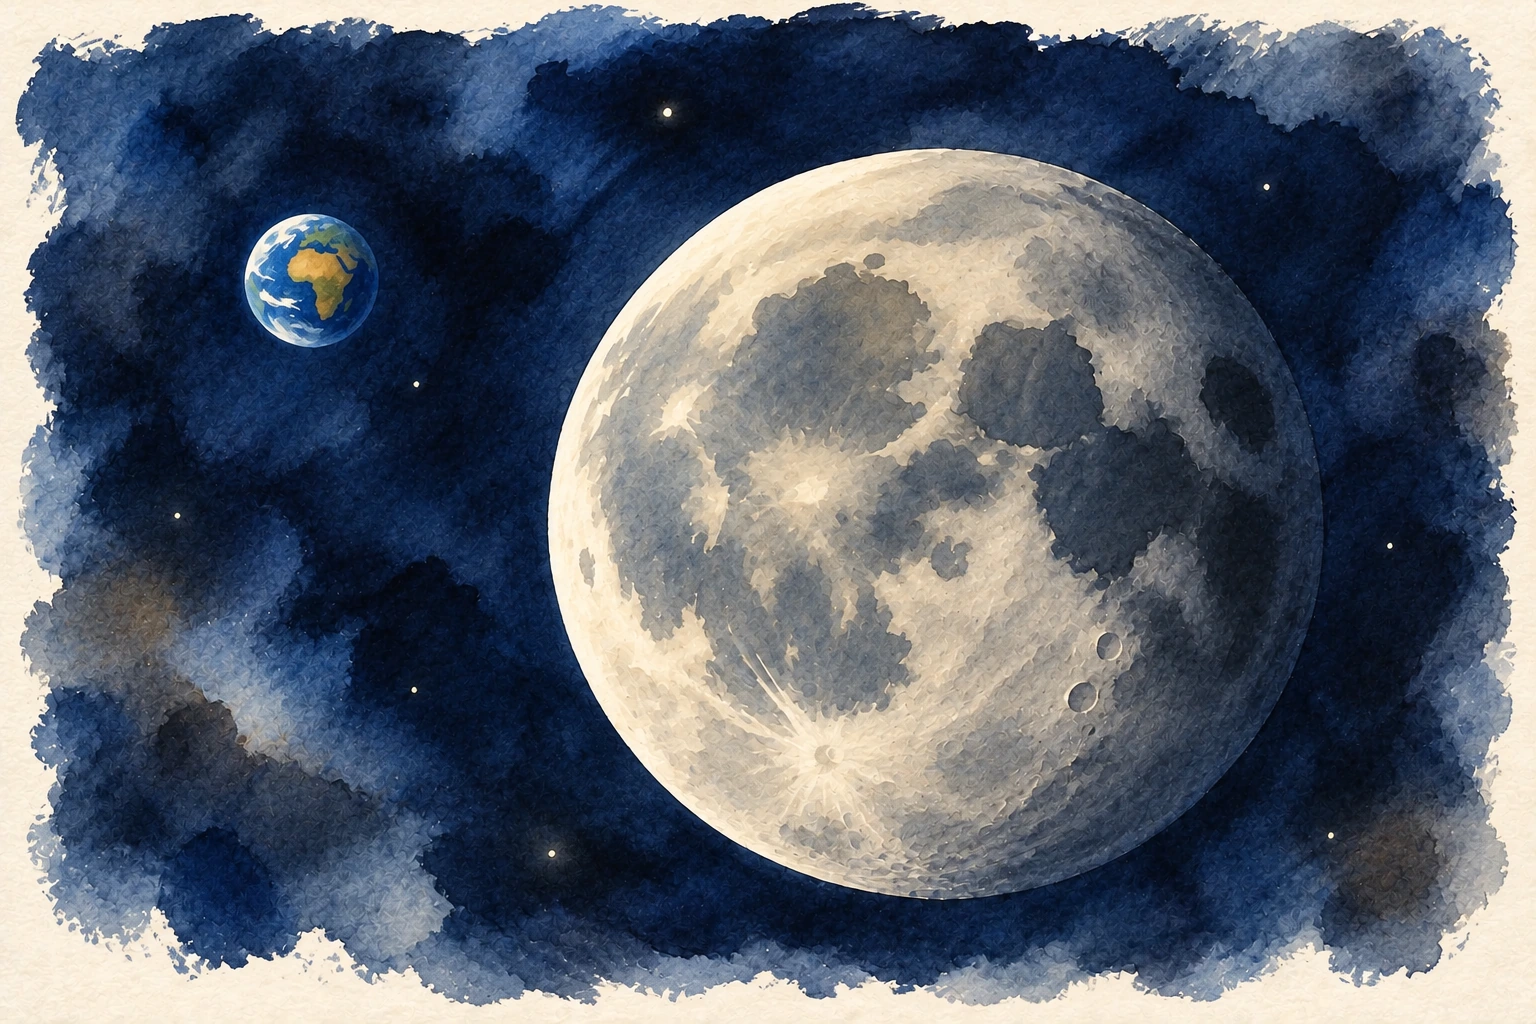
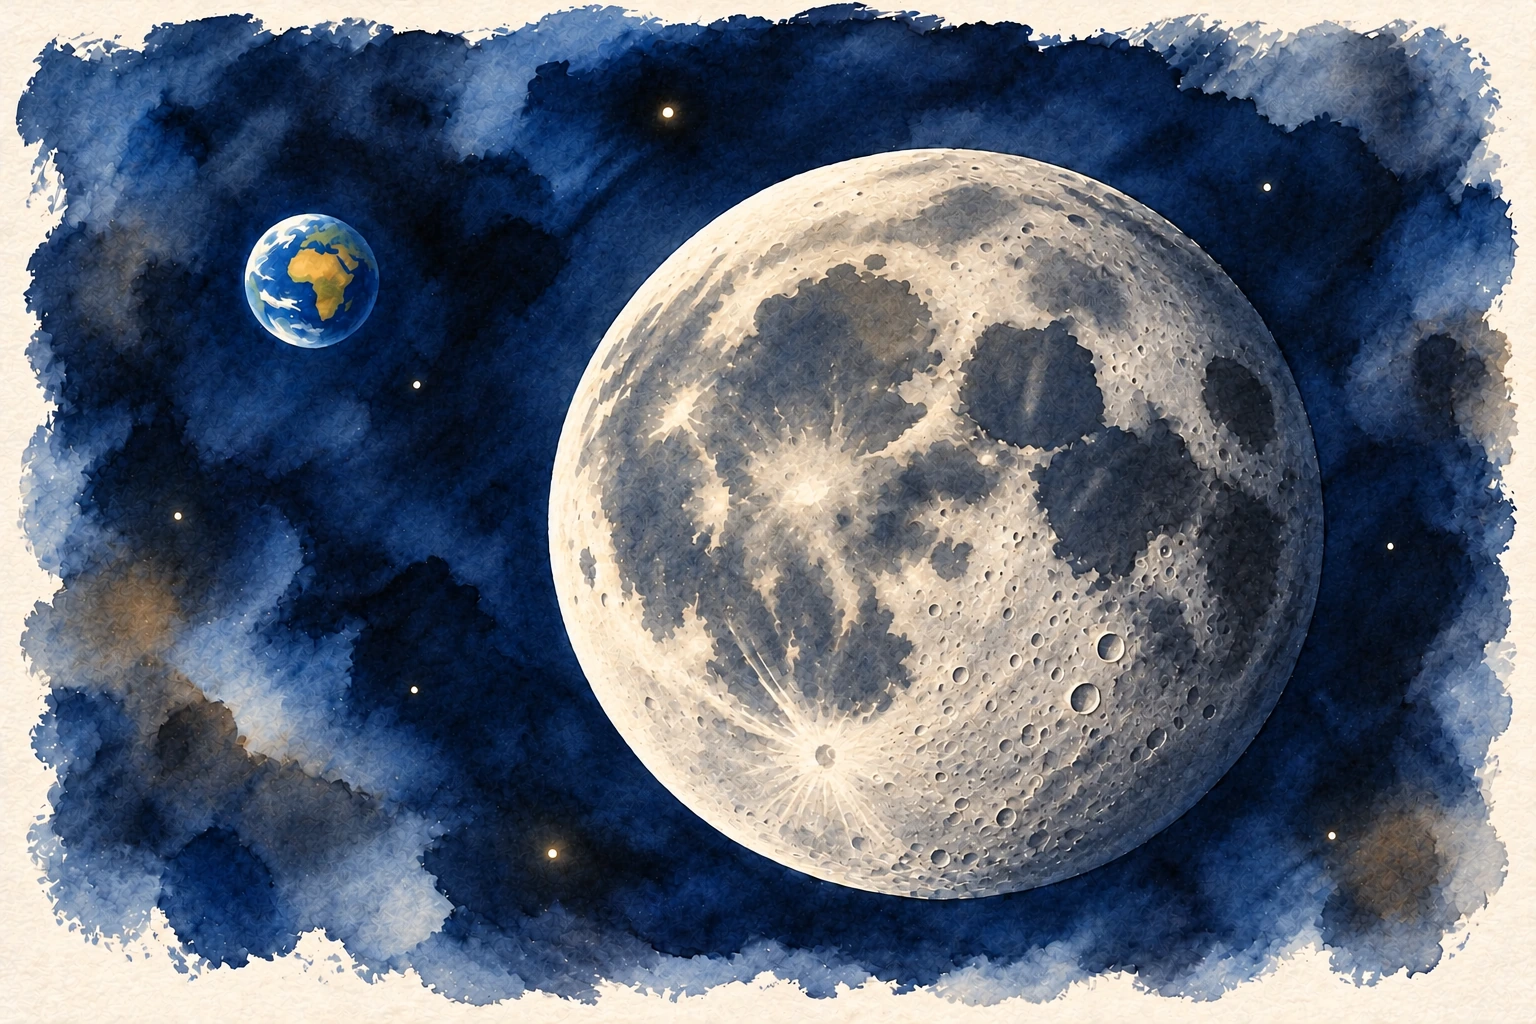
Restore terrain details and align the Venus navigation portrait

diff --git a/pictures/space/index.html b/pictures/space/index.html
@@ -289,8 +289,8 @@ scenes:
 - id: asteroid-belt
   name: In the asteroid belt
   image: /pictures/space/assets/asteroid-belt-watercolor.webp
-  alt: Separate watercolor close views of round gray-brown Ceres at right and smaller, irregular Vesta at lower
-    left. Pale salt deposits mark a crater near the center of Ceres. Small Mars and Jupiter portraits in the upper
+  alt: Separate watercolor close views of heavily cratered gray-brown Ceres at right and smaller, irregular Vesta at lower
+    left, with small craters and parallel grooves across its lower surface. Pale salt deposits mark a crater near the center of Ceres. Small Mars and Jupiter portraits in the upper
     corners connect the journey.
   caption: In the asteroid belt. Explore separate close views of Ceres and Vesta, then continue to Jupiter.
   back: mars
@@ -1484,7 +1484,7 @@ details:
   image: /pictures/space/assets/near-moon-v2-watercolor.webp
   position: 75.11% 70.95%
   zoom: 450% auto
-  alt: A crop of the lighter cratered lunar highlands.
+  alt: Small and medium craters crowd the lighter lunar highlands, with larger overlapping rims toward the right.
 - id: mars
   label: Mars
   kicker: Mars · The red surface
@@ -2213,7 +2213,7 @@ details:
   image: /pictures/space/assets/asteroid-belt-watercolor.webp
   position: 84.95% 33.97%
   zoom: 205% auto
-  alt: Ceres’ round cratered globe, with small bright deposits near its center.
+  alt: Ceres’ round gray-brown globe covered with small and larger craters, with bright salt deposits inside Occator near its center.
 - id: occator
   label: Bright salts
   kicker: Occator Crater
@@ -2252,7 +2252,7 @@ details:
   image: /pictures/space/assets/asteroid-belt-watercolor.webp
   position: 10.4% 82.2%
   zoom: 300% auto
-  alt: Vesta’s irregular gray globe, with adjoining upper craters and grooves across its lower terrain.
+  alt: Vesta’s irregular gray globe, with a pair of upper-left craters, many smaller craters and parallel grooves across its lower terrain.
 - id: kuiper-belt
   label: The Kuiper Belt
   kicker: Beyond Neptune

diff --git a/AGENTS.md b/AGENTS.md
@@ -812,7 +812,7 @@ accuracy and plain prose to this section as well.
   with NASA’s photograph linked from the note. No separate Sagan scene or
   Pale Blue Dot destination is needed.
   On 11 October 2026 the author asked for a way home at the end. Voyager 1's
-  way on and a small Earth portrait at its upper right lead back to Earth,
+  way back and a small Earth portrait at its upper left lead back to Earth,
   where the inner branch to Venus begins. The portrait is a navigation link,
   disclosed in the illustration note. The author also asked for both Voyager
   paintings to be repainted so that they no longer repeat one view, along
